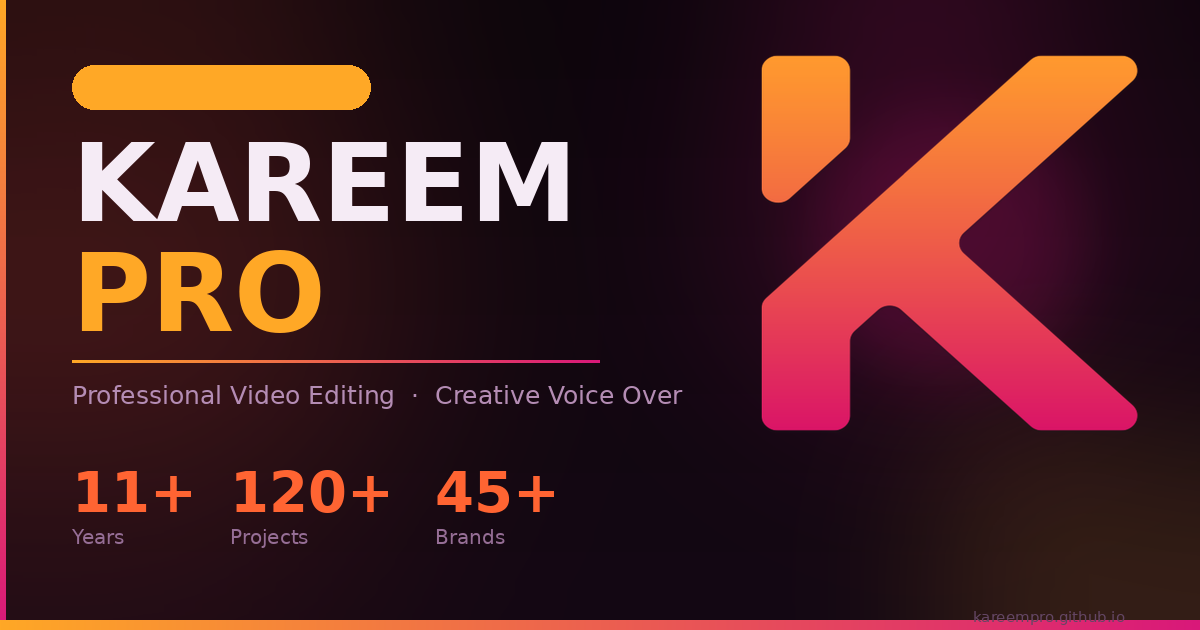
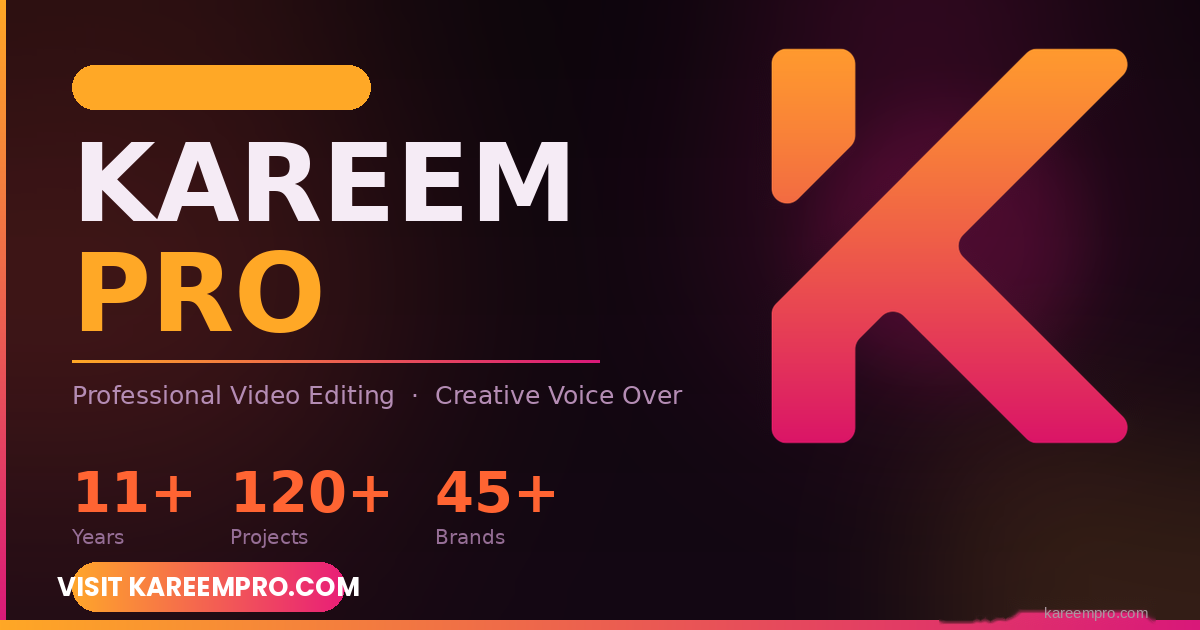
حذف شريط الماركي المتحرك

diff --git a/index.html b/index.html
@@ -4,7 +4,7 @@
   <meta charset="UTF-8" />
   <meta name="viewport" content="width=device-width, initial-scale=1.0" />
   <title>Kareem Pro — منصة الحلول الإبداعية المتكاملة</title>
-  <meta name="description" content="منصة الحلول الإبداعية المتكاملة — مونتاج فيديو، تعليق صوتي، أبحاث أكاديمية، تطوير مواقع، ومنصات تعليمية بخبرة تتجاوز 11 عاماً." />
+  <meta name="description" content="مونتاج فيديو، تعليق صوتي، تصميم جرافيك، أبحاث أكاديمية، وتطوير مواقع — خبرة 11 عاماً في الإبداع البصري." />
   <meta name="keywords" content="مونتاج فيديو, تعليق صوتي, تطوير مواقع, تطبيقات جوال, أبحاث أكاديمية, عروض بوربوينت, كريم برو, Kareem Pro" />
   <meta name="robots" content="index, follow" />
   <meta name="author" content="Kareem Pro" />
@@ -12,7 +12,8 @@
   <link rel="icon" type="image/png" href="logo-transparent.png" />
   <link rel="apple-touch-icon" href="logo-transparent.png" />
   <meta property="og:title" content="Kareem Pro — منصة الحلول الإبداعية المتكاملة" />
-  <meta property="og:description" content="منصة الحلول الإبداعية المتكاملة — مونتاج فيديو، تعليق صوتي، أبحاث أكاديمية، تطوير مواقع، ومنصات تعليمية بخبرة تتجاوز 11 عاماً." />
+  <meta property="og:description" content="مونتاج فيديو، تعليق صوتي، تصميم جرافيك، أبحاث أكاديمية، وتطوير مواقع — خبرة 11 عاماً في الإبداع البصري." />
+  <meta property="og:site_name" content="Kareem Pro" />
   <meta property="og:type" content="website" />
   <meta property="og:url" content="https://kareempro.com" />
   <meta property="og:image" content="https://kareempro.com/og-banner.png" />
@@ -20,8 +21,8 @@
   <meta property="og:image:height" content="630" />
   <meta property="og:image:alt" content="Kareem Pro — إبداع بصري" />
   <meta name="twitter:card" content="summary_large_image" />
-  <meta name="twitter:title" content="Kareem Pro — مصمم جرافيك ومحرر فيديو احترافي | إبداع بصري يليق بطموحك" />
-  <meta name="twitter:description" content="تعليق صوتي يأسر الأسماع ومونتاج سينمائي يخطف الأنظار — بخبرة تتجاوز 11 عاماً في التصميم الجرافيكي وإنتاج المحتوى البصري الاحترافي." />
+  <meta name="twitter:title" content="Kareem Pro — مصمم جرافيك ومحرر فيديو احترافي" />
+  <meta name="twitter:description" content="مونتاج فيديو، تعليق صوتي، تصميم جرافيك، أبحاث أكاديمية، وتطوير مواقع — خبرة 11 عاماً في الإبداع البصري." />
   <meta name="twitter:image" content="https://kareempro.com/og-banner.png" />
   <script type="application/ld+json">
   {
@@ -478,21 +479,6 @@
       font-size: 0.74rem; font-weight: 700; margin-bottom: 0.7rem;
     }
     .card-title { font-size: 0.95rem; color: var(--text); line-height: 1.8; font-weight: 400; font-family: 'FrutigerArabic', sans-serif; }
-
-    /* ── MARQUEE ── */
-    .marquee-section {
-      padding: 1.8rem 0; background: var(--dark3);
-      border-top: 1px solid var(--border); border-bottom: 1px solid var(--border);
-      overflow: hidden;
-    }
-    .marquee-track { display: flex; gap: 2.5rem; animation: marquee 22s linear infinite; white-space: nowrap; }
-    @keyframes marquee { from { transform: translateX(0); } to { transform: translateX(-50%); } }
-    .marquee-item { display: inline-flex; align-items: center; gap: 0.5rem; color: var(--muted); font-size: 0.88rem; font-weight: 600; }
-    .marquee-dot {
-      background: var(--grad-text); -webkit-background-clip: text;
-      -webkit-text-fill-color: transparent; background-clip: text;
-      font-size: 1.1rem;
-    }
 
     /* ── SERVICES ── */
     #services { background: var(--dark); }
@@ -1065,11 +1051,6 @@
   </div>
 </div>
 
-<!-- ═══ MARQUEE ═══ -->
-<div class="marquee-section">
-  <div class="marquee-track" id="mq"></div>
-</div>
-
 <!-- ═══ SERVICES ═══ -->
 <section id="services">
   <div class="container">
@@ -1433,15 +1414,6 @@
   },{threshold:0.5});
   document.querySelectorAll('.stat-number').forEach(el=>cObs.observe(el));
 
-  // Marquee
-  const items=['مونتاج فيديو','رسائل دكتوراه','تطوير مواقع','تعليق صوتي','منصات تعليمية','أبحاث وتقارير','PowerPoint إبداعي','حلول أكاديمية','منصات تجارية'];
-  const mq=document.getElementById('mq');
-  [...items,...items].forEach(it=>{
-    const s=document.createElement('span');
-    s.className='marquee-item';
-    s.innerHTML=`<span class="marquee-dot">●</span> ${it}`;
-    mq.appendChild(s);
-  });
 </script>
 </body>
 </html>